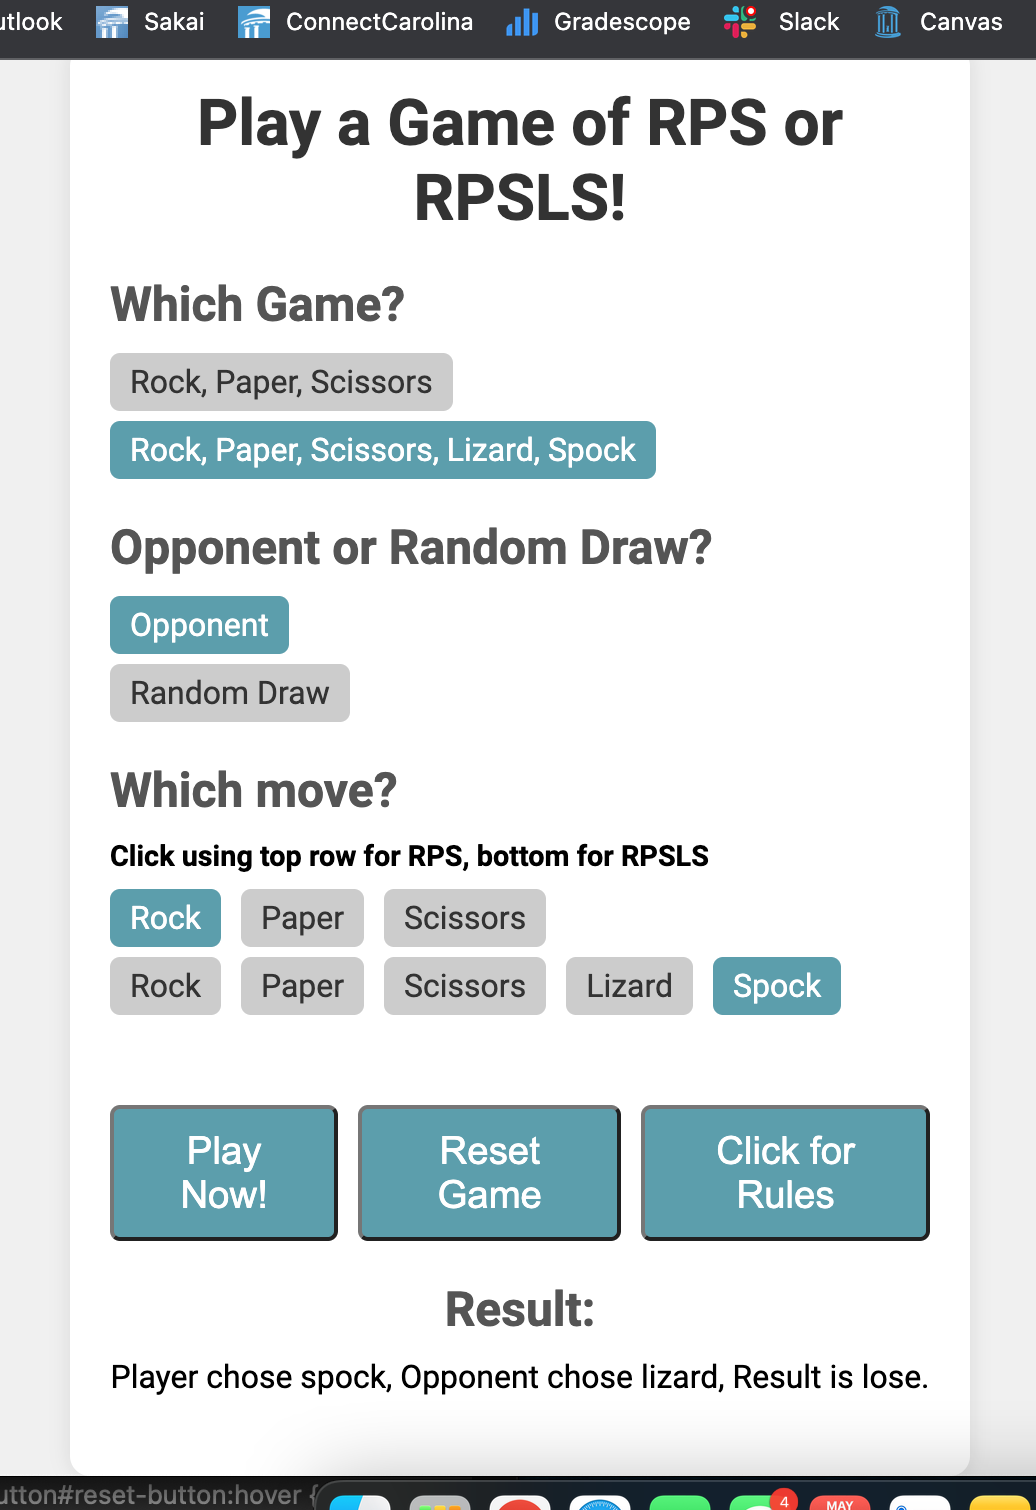
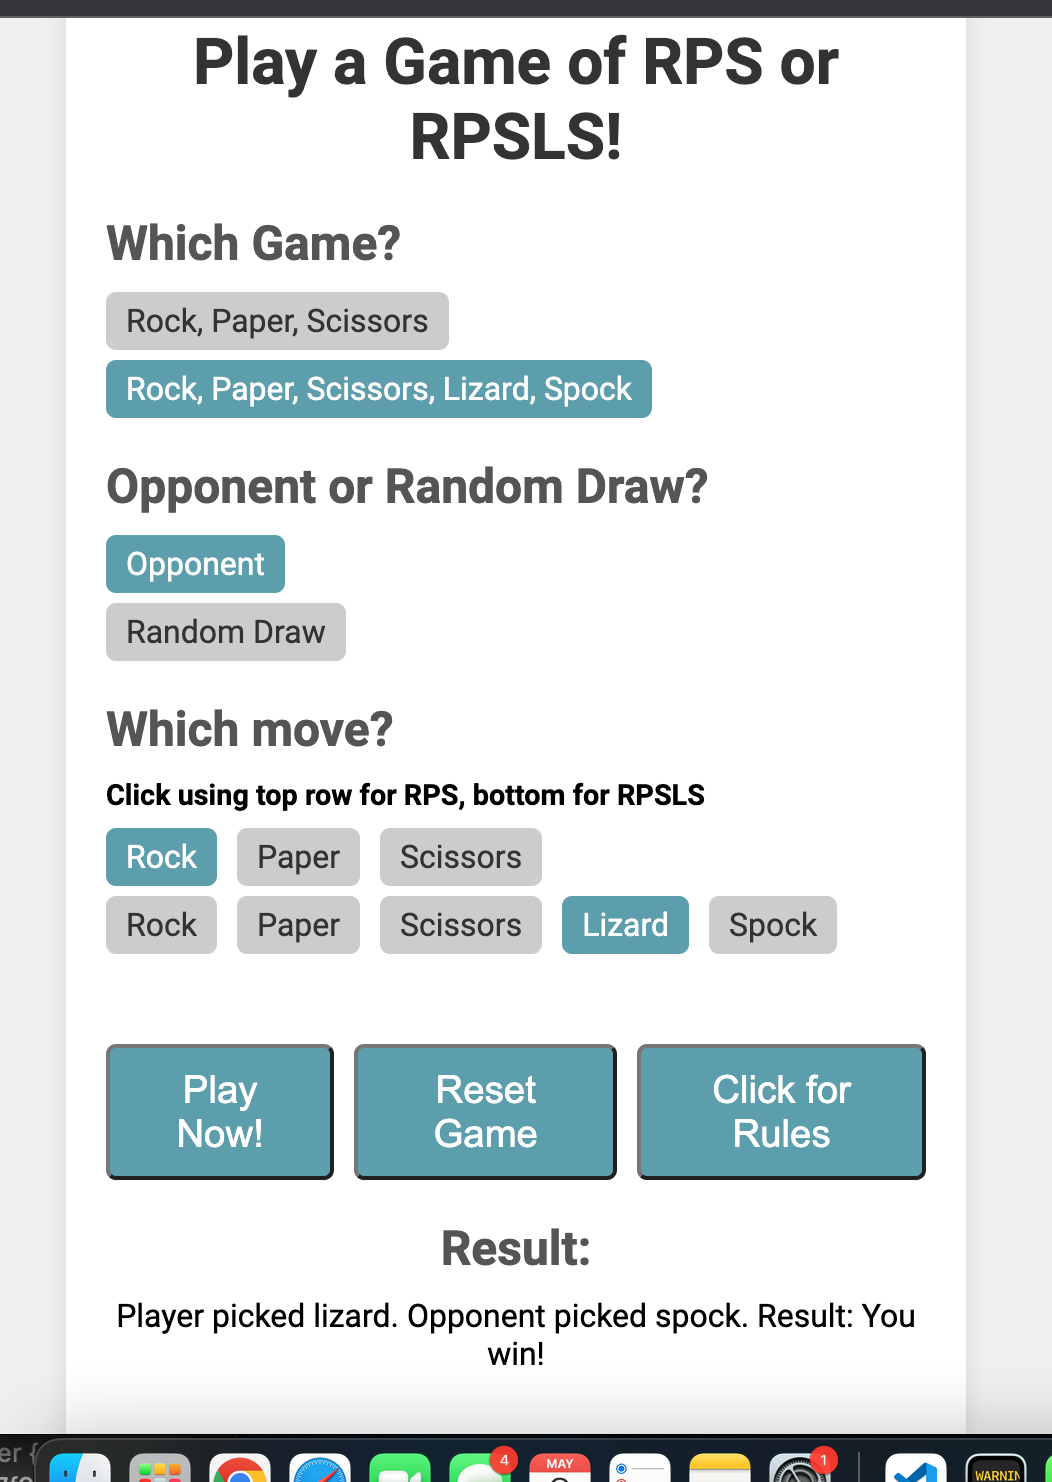
last edits?

Changed region(s): [[0.0927, 0.1552, 0.8958, 0.9312], [0.0, 0.0, 1.0, 0.1552], [0.0, 0.9312, 1.0, 1.0]]

diff --git a/public/scripts.js b/public/scripts.js
@@ -45,7 +45,7 @@ document.addEventListener('DOMContentLoaded', () => {
     const result = await response.json();
 
     gameResult.style.display = 'block';
-    resultText.innerHTML = `Player chose ${result.player}, Opponent chose ${result.opponent}, Result is ${result.result}.`;
+    resultText.innerHTML = `Player picked ${result.player}. Opponent picked ${result.opponent}. Result: You ${result.result}!`;
   });
 
   resetButton.addEventListener('click', () => {
